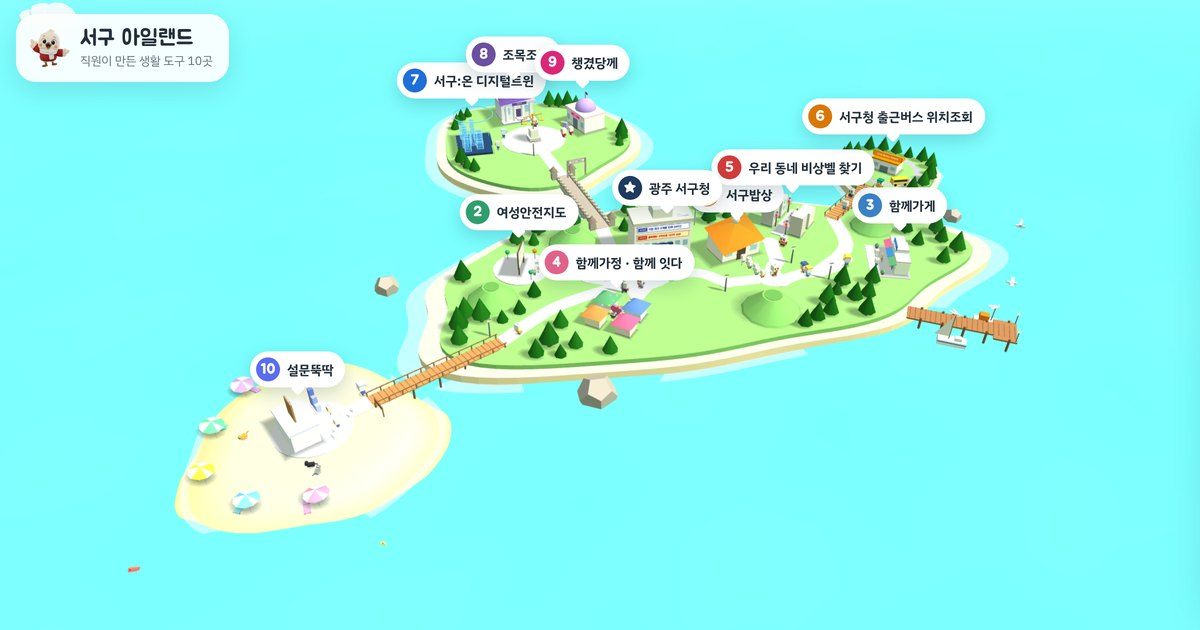
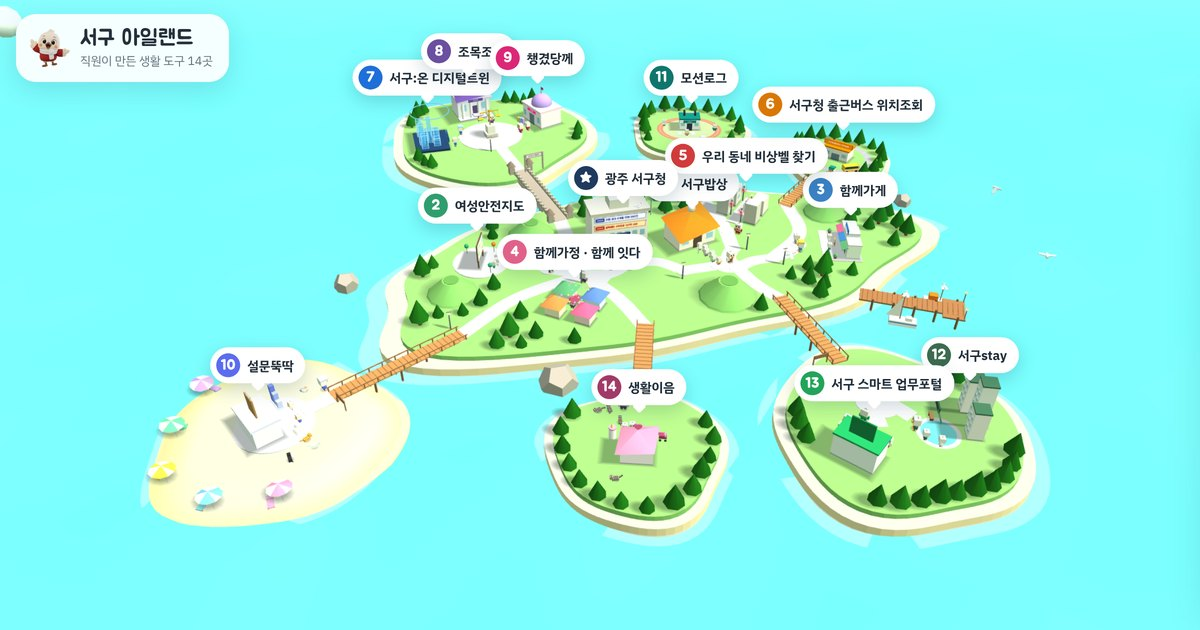
Island: three new islands with four apps — 화이트페이퍼 아일랜드 (모션로그, 백지호), 후지필름 아일랜드 (서구stay and 서구 스마트 업무포털, 김지후), 너구리 아일랜드 (생활이음, 노규리, with wandering block raccoons); bridges, signs, guides, cards and screenshots; count now 14; overview refitted with distance-aware fog
Claude-Session: https://claude.ai/code/session_01Rn2FnTmWsitNSVHCMP1upV

diff --git a/src/head.html b/src/head.html
@@ -3,9 +3,9 @@
 <head>
 <meta charset="utf-8">
 <meta name="viewport" content="width=device-width,initial-scale=1,viewport-fit=cover">
-<meta name="description" content="서구청 직원이 만든 생활 도구 10곳 — 서구밥상, 여성안전지도, 함께가게, 함께가정, 우리 동네 비상벨 찾기, 서구청 출근버스 위치조회, 서구:온, 조목조목, 챙겼당께, 설문뚝딱">
+<meta name="description" content="서구청 직원이 만든 생활 도구 14곳 — 서구밥상, 여성안전지도, 함께가게, 함께가정, 우리 동네 비상벨 찾기, 서구청 출근버스 위치조회, 서구:온, 조목조목, 챙겼당께, 설문뚝딱, 모션로그, 서구stay, 서구 스마트 업무포털, 생활이음">
 <meta property="og:title" content="서구 아일랜드">
-<meta property="og:description" content="해온이와 함께 둘러보는 서구 생활 도구 10곳. 눌러서 바로 쓰고, 휴대폰에 설치하세요.">
+<meta property="og:description" content="해온이와 함께 둘러보는 서구 생활 도구 14곳. 눌러서 바로 쓰고, 휴대폰에 설치하세요.">
 <meta property="og:type" content="website">
 <meta property="og:url" content="https://hkejys9654-tech.github.io/seogu-island/">
 <meta property="og:image" content="https://hkejys9654-tech.github.io/seogu-island/og.jpg">
